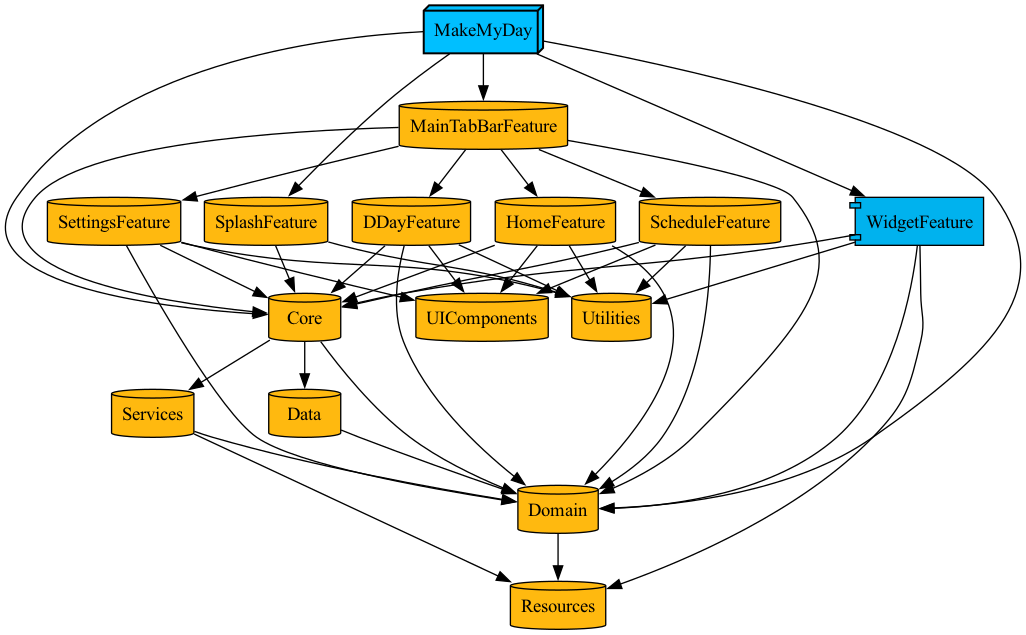
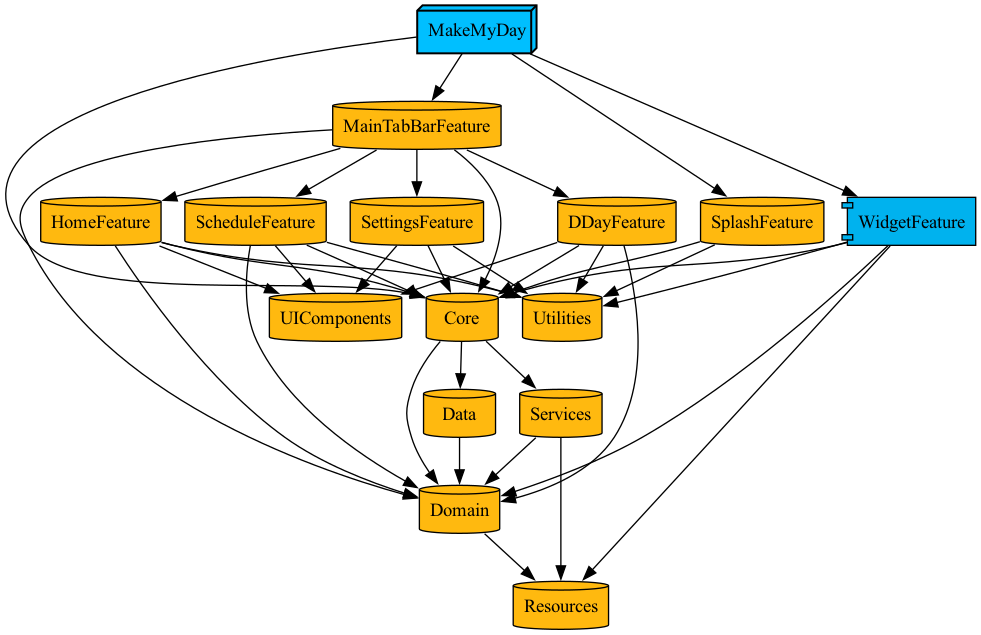
refactor: App, Settings 에서 Domain 의존성 제거

diff --git a/Features/SettingsFeature/Sources/SettingsProfile/SettingsProfileReducer.swift b/Features/SettingsFeature/Sources/SettingsProfile/SettingsProfileReducer.swift
@@ -8,7 +8,6 @@
 
 import SwiftUI
 import PhotosUI
-import Domain
 import Utilities
 import ComposableArchitecture
 
@@ -55,15 +54,15 @@ public struct SettingsProfileReducer {
                 }
                 
             case .saveButtonTapped:
-                userDefaultsClient.setBool(UserDefaultsKey.isUsingCustomImage, state.isUsingCustomImage)
-                userDefaultsClient.setString(UserDefaultsKey.userNickname, state.nickname)
+                userDefaultsClient.setBool(.isUsingCustomImage, state.isUsingCustomImage)
+                userDefaultsClient.setString(.userNickname, state.nickname)
                 
                 if state.isUsingCustomImage {
                     if let imageData = state.currentImage.pngData() {
-                        userDefaultsClient.setData(UserDefaultsKey.userProfileImage, imageData)
+                        userDefaultsClient.setData(.userProfileImage, imageData)
                     }
                 } else {
-                    userDefaultsClient.setData(UserDefaultsKey.userProfileImage, nil)
+                    userDefaultsClient.setData(.userProfileImage, nil)
                 }
                 
                 state.hasChanges = false
@@ -117,8 +116,8 @@ public struct SettingsProfileReducer {
                 return .none
                 
             case .onAppear:
-                let isCustom = userDefaultsClient.getBool(UserDefaultsKey.isUsingCustomImage)
-                var savedNickname = userDefaultsClient.getString(UserDefaultsKey.userNickname)
+                let isCustom = userDefaultsClient.getBool(.isUsingCustomImage)
+                var savedNickname = userDefaultsClient.getString(.userNickname)
                 if savedNickname == "" {
                     savedNickname = "D"
                 }
@@ -126,7 +125,7 @@ public struct SettingsProfileReducer {
                 state.previousNickname = savedNickname
                 
                 if isCustom,
-                   let imageData = userDefaultsClient.getData(UserDefaultsKey.userProfileImage),
+                   let imageData = userDefaultsClient.getData(.userProfileImage),
                    let savedImage = UIImage(data: imageData) {
                     state.currentImage = savedImage
                     state.isUsingCustomImage = true

diff --git a/Features/HomeFeature/Sources/HomeReducer.swift b/Features/HomeFeature/Sources/HomeReducer.swift
@@ -56,15 +56,15 @@ public struct HomeReducer {
         Reduce { state, action in
             switch action {
             case .onAppear:
-                let isCustom = userDefaultsClient.getBool(UserDefaultsKey.isUsingCustomImage)
-                var nickname = userDefaultsClient.getString(UserDefaultsKey.userNickname)
+                let isCustom = userDefaultsClient.getBool(.isUsingCustomImage)
+                var nickname = userDefaultsClient.getString(.userNickname)
                 if nickname == "" {
                     nickname = "D"
                 }
                 state.userNickname = nickname
                 
                 if isCustom,
-                   let imageData = userDefaultsClient.getData(UserDefaultsKey.userProfileImage),
+                   let imageData = userDefaultsClient.getData(.userProfileImage),
                    let savedImage = UIImage(data: imageData) {
                     state.currentImage = savedImage
                     state.isUsingCustomImage = true

diff --git a/Features/SettingsFeature/Sources/SettingsTheme/SettingsThemeReducer.swift b/Features/SettingsFeature/Sources/SettingsTheme/SettingsThemeReducer.swift
@@ -8,7 +8,6 @@
 
 import SwiftUI
 import Core
-import Domain
 import ComposableArchitecture
 
 @Reducer
@@ -43,7 +42,7 @@ public struct SettingsThemeReducer {
                 }
                 
             case .saveButtonTapped:
-                userDefaultsClient.setBool(UserDefaultsKey.isLightTheme, state.isLightTheme)
+                userDefaultsClient.setBool(.isLightTheme, state.isLightTheme)
                 
                 let scenes = UIApplication.shared.connectedScenes
                 let windowScene = scenes.first as? UIWindowScene
@@ -63,7 +62,7 @@ public struct SettingsThemeReducer {
                 return .none
                 
             case .onAppear:
-                state.isLightTheme = userDefaultsClient.getBool(UserDefaultsKey.isLightTheme)
+                state.isLightTheme = userDefaultsClient.getBool(.isLightTheme)
                 
                 let scenes = UIApplication.shared.connectedScenes
                 let windowScene = scenes.first as? UIWindowScene

diff --git a/App/Project.swift b/App/Project.swift
@@ -129,7 +129,6 @@ private let project = Project(
                 .project(target: "SplashFeature", path: .relativeToRoot("Features/SplashFeature")),
                 .project(target: "MainTabBarFeature", path: .relativeToRoot("Features/MainTabBarFeature")),
                 .project(target: "Core", path: .relativeToRoot("Core")),
-                .project(target: "Domain", path: .relativeToRoot("Shared/Domain")),
                 .external(name: "ComposableArchitecture"),
                 .external(name: "GoogleMobileAds"),
                 .external(name: "FirebaseAnalytics"),

diff --git a/App/Sources/AppReducer.swift b/App/Sources/AppReducer.swift
@@ -1,6 +1,5 @@
 import SwiftUI
 import Core
-import Domain
 import SplashFeature
 import MainTabBarFeature
 import ComposableArchitecture
@@ -57,7 +56,7 @@ struct AppReducer {
                 return .none
                 
             case .onAppear:
-                state.isLightTheme = userDefaultsClient.getBool(UserDefaultsKey.isLightTheme)
+                state.isLightTheme = userDefaultsClient.getBool(.isLightTheme)
                 
                 let scenes = UIApplication.shared.connectedScenes
                 let windowScene = scenes.first as? UIWindowScene

diff --git a/Features/SettingsFeature/Project.swift b/Features/SettingsFeature/Project.swift
@@ -7,7 +7,6 @@ private let project = Project.makeModule(
     sources: ["Sources/**"],
     dependencies: [
         .project(target: "Core", path: .relativeToRoot("Core")),
-        .project(target: "Domain", path: .relativeToRoot("Shared/Domain")),
         .project(target: "UIComponents", path: .relativeToRoot("Shared/UIComponents")),
         .project(target: "Utilities", path: .relativeToRoot("Shared/Utilities")),
         .external(name: "ComposableArchitecture")

diff --git a/Features/SettingsFeature/Sources/SettingsAppInfo/SettingsAppInfoReducer.swift b/Features/SettingsFeature/Sources/SettingsAppInfo/SettingsAppInfoReducer.swift
@@ -8,7 +8,6 @@
 
 import SwiftUI
 import Core
-import Domain
 import MessageUI
 import ComposableArchitecture
 
